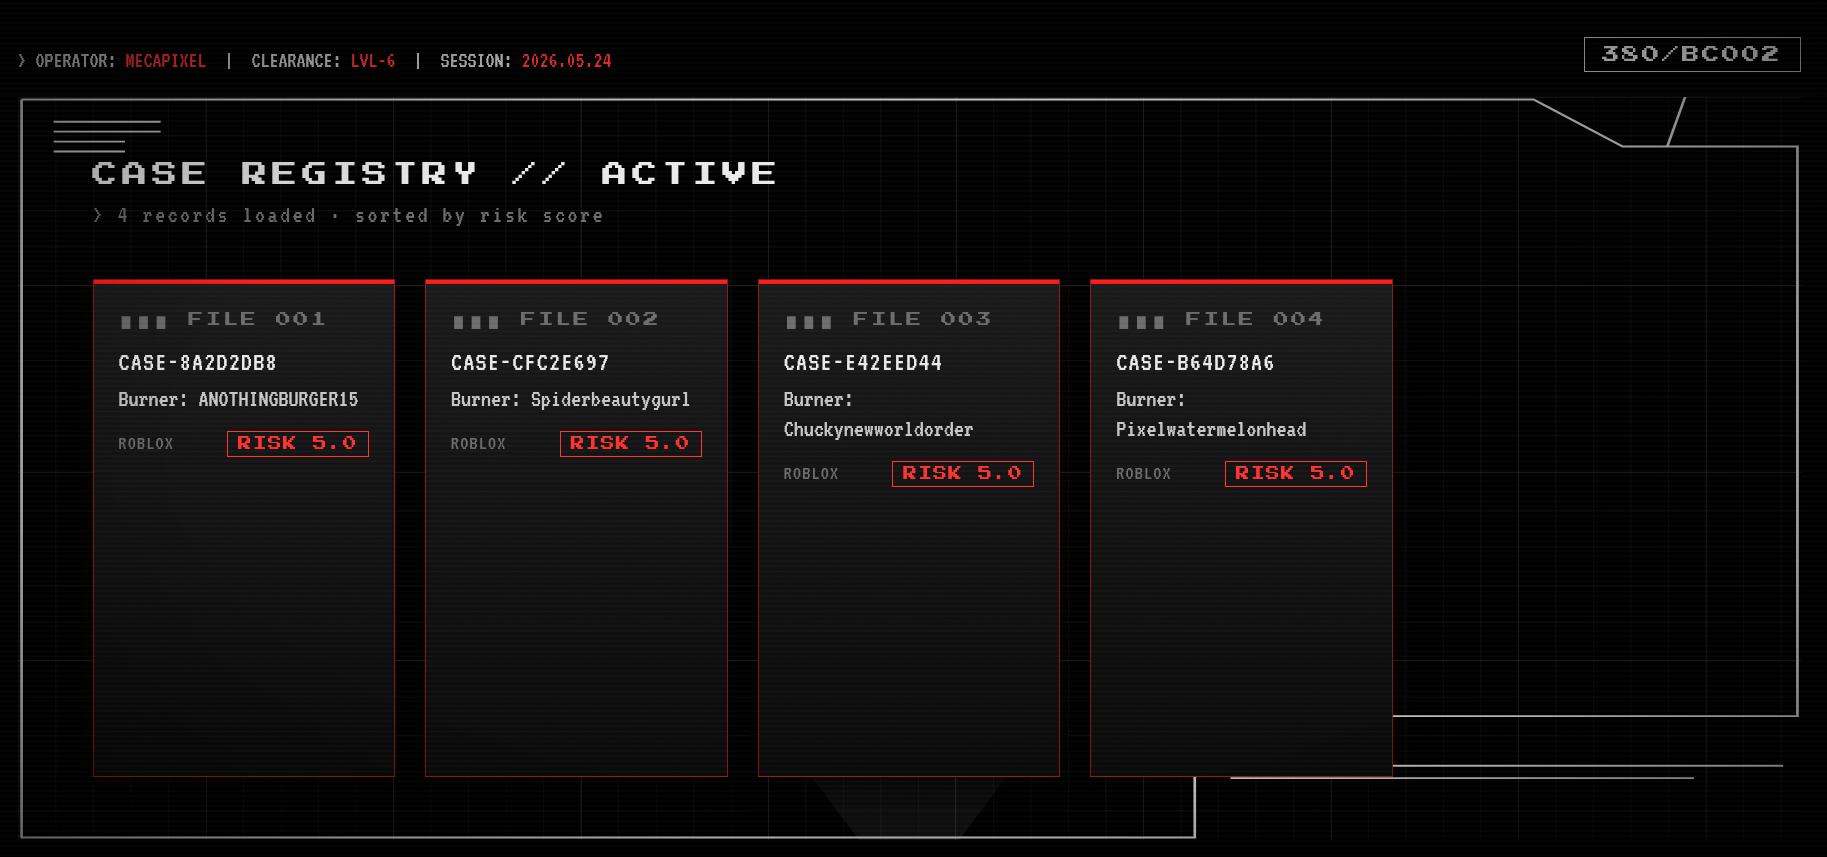
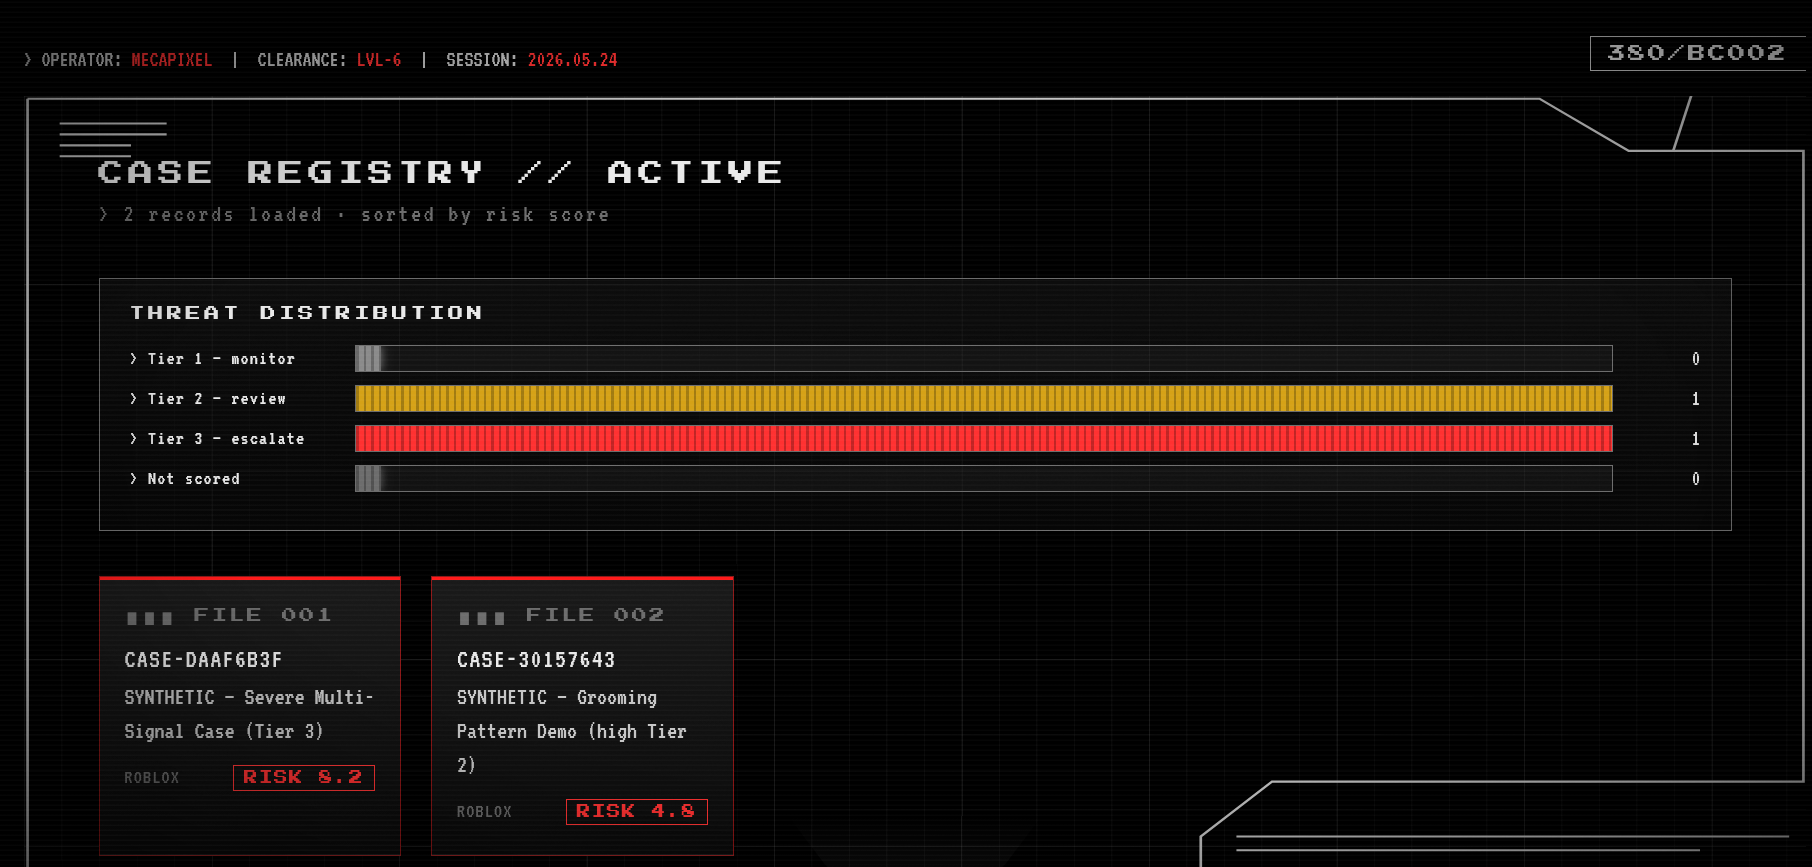
Update screenshots to finished-product versions with correct scores

diff --git a/dump_findings.py b/dump_findings.py
@@ -1,0 +1,33 @@
+"""
+dump_findings.py — one-off helper to export the exact scored findings for the
+two synthetic demo cases, so they can be seeded as known-good static data on
+Render. Prints the risk_score and full findings JSON for each synthetic case.
+"""
+import sqlite3, json
+
+c = sqlite3.connect('whisperward.db')
+c.row_factory = sqlite3.Row
+
+rows = c.execute("""
+    SELECT cs.case_name, ar.risk_score, ar.findings, ar.analysis_type
+    FROM cases cs
+    JOIN targets t ON t.case_id = cs.case_id
+    JOIN analysis_results ar ON ar.target_id = t.target_id
+    WHERE cs.case_name LIKE 'SYNTHETIC%'
+    ORDER BY ar.result_id DESC
+""").fetchall()
+
+seen = set()
+for r in rows:
+    if r['case_name'] in seen:
+        continue
+    seen.add(r['case_name'])
+    print("=" * 70)
+    print("CASE:", r['case_name'])
+    print("SCORE:", r['risk_score'])
+    print("TYPE:", r['analysis_type'])
+    print("FINDINGS:")
+    # pretty-print so it's readable, but also valid JSON we can lift
+    parsed = json.loads(r['findings'])
+    print(json.dumps(parsed, indent=2))
+    print()

diff --git a/README.MD b/README.MD
@@ -65,32 +65,37 @@ The full collection and analysis pipeline (live OSINT, local AI) requires the ad
 
 <p align="center">
   <strong>Boot sequence</strong> — live case count pulled from the database<br>
-  <img src="docs/screenshots/boot.png" width="75%" alt="Boot screen">
+  <img src="docs/screenshots/Whisperward_Loading.png" width="75%" alt="Boot screen">
 </p>
 
 <p align="center">
   <strong>Operator authentication</strong><br>
-  <img src="docs/screenshots/auth.png" width="75%" alt="Authentication">
+  <img src="docs/screenshots/access.png" width="75%" alt="Operator authentication">
 </p>
 
 <p align="center">
-  <strong>Threat distribution</strong> — D3 risk-tier breakdown across all active cases<br>
-  <img src="docs/screenshots/01_dashboard_threat_distribution.png" width="75%" alt="Threat distribution">
-</p>
-
-<p align="center">
-  <strong>Case registry</strong> — active cases sorted by risk score<br>
-  <img src="docs/screenshots/dashboard.png" width="75%" alt="Case registry dashboard">
+  <strong>Case registry</strong> — active cases sorted by risk score, with the D3 threat-tier distribution across all active cases<br>
+  <img src="docs/screenshots/dashboard.png" width="75%" alt="Case registry with threat distribution">
 </p>
 
 <p align="center">
   <strong>Classified case file</strong> — quick-view popup<br>
-  <img src="docs/screenshots/case_file.png" width="75%" alt="Classified case file">
+  <img src="docs/screenshots/classified_case_file.png" width="75%" alt="Classified case file">
 </p>
 
 <p align="center">
-  <strong>Subject dossier</strong> — risk assessment, risk timeline, radial gauge, artifacts, and intel log with live Roblox avatar<br>
-  <img src="docs/screenshots/dossier.png" width="75%" alt="Subject dossier">
+  <strong>Subject dossier</strong> — risk assessment, artifacts, and live Roblox avatar<br>
+  <img src="docs/screenshots/Synthetic_case.png" width="75%" alt="Subject dossier">
+</p>
+
+<p align="center">
+  <strong>Risk timeline and radial gauge</strong> — per-case scoring history and current-risk gauge<br>
+  <img src="docs/screenshots/risk_gauge.png" width="75%" alt="Risk timeline and current-risk radial gauge">
+</p>
+
+<p align="center">
+  <strong>Risk breakdown</strong> — explainable component contributions from the structured risk engine, with the terminal intel log<br>
+  <img src="docs/screenshots/case_breakdown.png" width="75%" alt="Explainable risk breakdown and intel log">
 </p>
 
 <p align="center"><em>Screenshots use a clean test environment with only investigator-created accounts and synthetic data.</em></p>